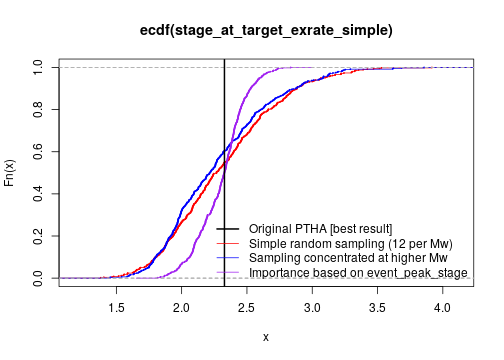
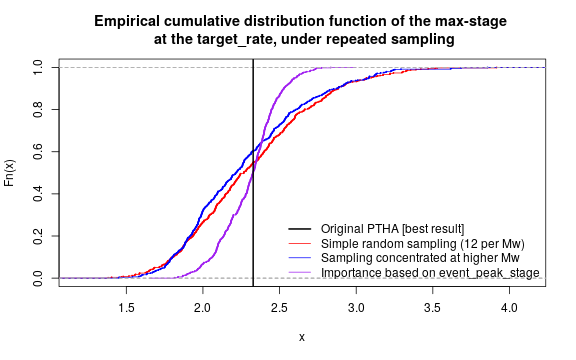
updates

diff --git a/ptha_access/example_event_access_scripts/random_scenario_sampling/random_scenario_sampling.md b/ptha_access/example_event_access_scripts/random_scenario_sampling/random_scenario_sampling.md
@@ -406,6 +406,10 @@ Beware importance sampling can backfire if the choice of `event_importance` is p
 ## Comparison of all approaches
 -------------------------------
 
+Here we overplot all the curves above (ignoring the one with 120 random
+scenarios per Mw bin).  The curves are affected by randomness, so if we ran the
+code again with a different random seed, the results would differ. 
+
 
 ```r
 # Plot it
@@ -422,6 +426,12 @@ legend('bottomleft', c('Original PTHA [best result]', 'Simple random sampling (1
 ```
 
 ![plot of chunk compareAllApproaches](figure/compareAllApproaches-1.png)
+
+Because the results are affected by random variations, some of our results
+might be fortuitousy good, or fortuitously bad. To better understand the
+performance of different methods, one can study their variability under
+repeated sampling. This is explored in the next section.
+
 
 ## Performance of each method under repeated sampling
 -----------------------------------------------------

diff --git a/ptha_access/example_event_access_scripts/random_scenario_sampling/README.md b/ptha_access/example_event_access_scripts/random_scenario_sampling/README.md
@@ -1,0 +1,7 @@
+A tutorial on random scenario sampling can be viewed at [random_scenario_sampling.md](random_scenario_sampling.md).
+
+It can be created or regenerated by starting R, and doing:
+
+    library(knitr)
+    library(rptha)
+    knit('random_scenario_sampling.Rmd')
